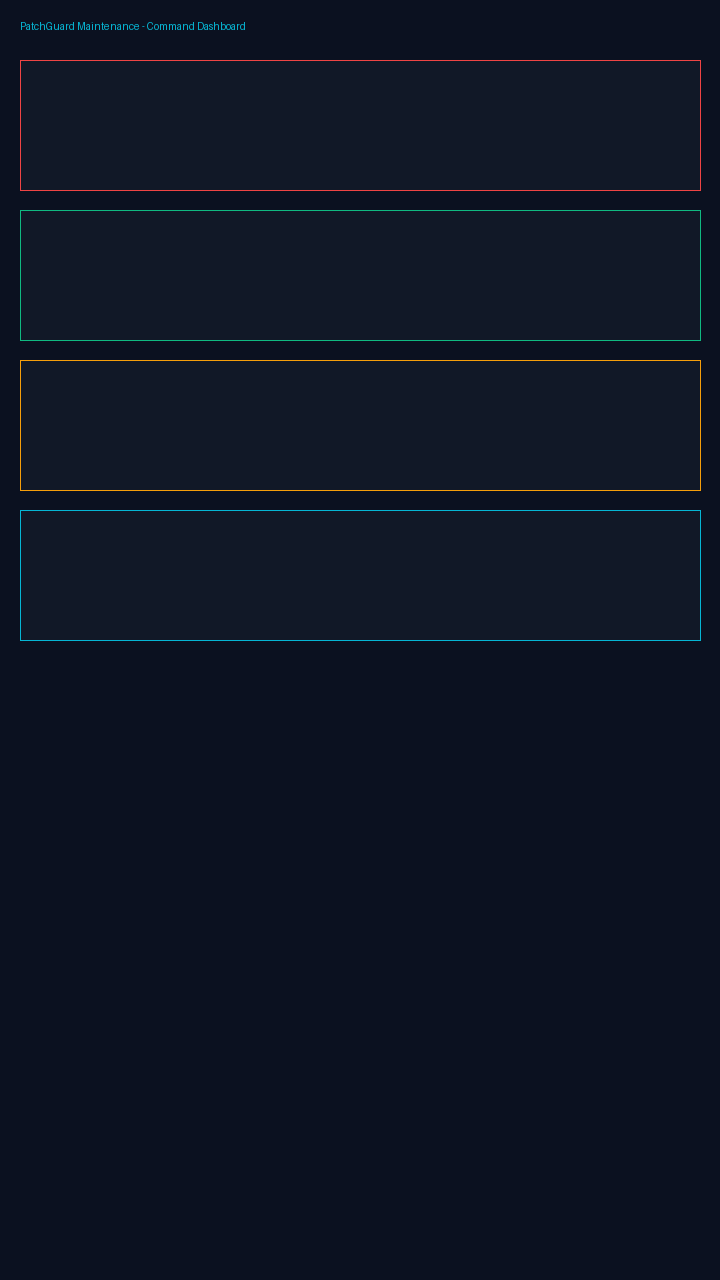
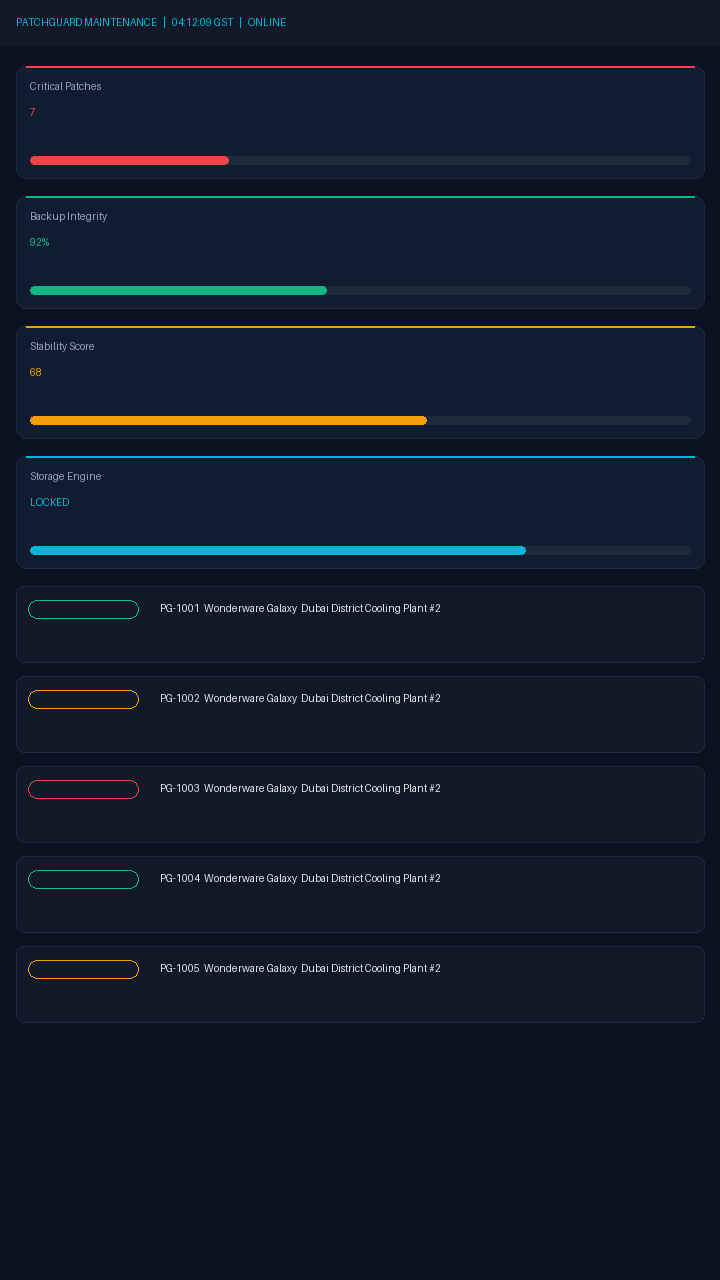
Add files via upload

diff --git a/js/app.js b/js/app.js
@@ -5,7 +5,8 @@ const CHK=['Full Galaxy (.cab) & SQL (.bak) backup verified','Redundant AppEngin
 let tab=location.hash.slice(1)||'dash',F={q:'',c:'',s:'',v:''},dp;
 const today=()=>new Date().toISOString().slice(0,10),now=()=>new Date().toISOString();
 const toast=m=>{const t=$('#toast');t.textContent=m;t.style.display='block';setTimeout(()=>t.style.display='none',2500)};
-const cls=v=>/OPTIMAL|Completed|Passed|Approved|MATCH/.test(v)?'ok':/WARNING|Progress|Pending|Not/.test(v)?'wa':/CRITICAL|Rolled|Failed|Critical/.test(v)?'cr':'in';
+const cls=v=>/MISMATCH|CRITICAL|Rolled|Failed|Critical|Rejected/.test(v)?'cr':/OPTIMAL|Completed|Passed|Approved|MATCH|LOCKED/.test(v)&&!/UNLOCKED/.test(v)?'ok':/WARNING|Progress|Pending|Not|UNLOCKED/.test(v)?'wa':'in';
+const meter=(p,c)=>`<i class="m"><u class="${c}" style="width:${Math.min(100,p)}%"></u></i>`,lv=p=>p>85?'cr':p>=70?'wa':'ok',gate=p=>{const n=(p.preCheckItems||[]).filter(Boolean).length;return`<span class="b ${n==5?'ok':n>=3?'wa':'cr'}">${n}/5 Gates${n==5?' Passed':''}</span>`};
 const bd=v=>`<span class="b ${cls(v)}">${E(v)}</span>`;
 function dl(name,text,type){const a=document.createElement('a');a.href=URL.createObjectURL(new Blob([text],{type}));a.download=name;a.click()}
 function csv(rows){if(!rows.length)return'';const k=Object.keys(rows[0]);return[k.join(','),...rows.map(r=>k.map(x=>'"'+String(typeof r[x]=='object'?JSON.stringify(r[x]):r[x]??'').replace(/"/g,'""')+'"').join(','))].join('\n')}
@@ -27,40 +28,41 @@ el.innerHTML=`<div class="bar"><button class="p" data-a="p">+ Schedule Patch Win
 <div class="card"><h3>Upcoming Windows (30 days)</h3>${up.map(p=>{const d=Math.ceil((new Date(p.scheduledDate)-new Date(today()))/864e5);return`<p>${bd('T-'+d+'d')} <b>${E(p.ticketRef)}</b> ${E(p.siteName)} - ${E(p.targetSystem)} (${p.scheduledDate}) PTW: ${bd(p.qhsePermit)}</p>`}).join('')||'<p>No windows in next 30 days.</p>'}</div>`;
 el.onclick=e=>{const a=e.target.dataset.a;if(a=='p')patchForm();if(a=='b'){tab='backups';render()}if(a=='a')auditForm();if(a=='r')printReport()}},
 async patches(el){const P=(await PG.all('patch_schedules')).sort((a,b)=>a.scheduledDate<b.scheduledDate?1:-1).filter(p=>(!F.c||p.assetType==F.c)&&(!F.s||p.status==F.s)&&(!F.v||p.cveSeverity==F.v)&&JSON.stringify(p).toLowerCase().includes(F.q.toLowerCase()));
-el.innerHTML=`<div class="bar"><input id="q" placeholder="Search..." value="${E(F.q)}">${sel('fc',CATS,F.c,'All assets')}${sel('fs',STAT,F.s,'All status')}${sel('fv',SEV,F.v,'All severity')}<button class="p" id="add">+ New Patch</button></div><div class="tw"><table><tr><th>Ticket</th><th>Site</th><th>System</th><th>Version</th><th>Severity</th><th>Date</th><th>Status</th><th>PTW</th><th></th></tr>${P.map(p=>`<tr><td>${E(p.ticketRef)}</td><td>${E(p.siteName)}</td><td>${E(p.targetSystem)}</td><td class="mono">${E(p.currentVersion)}&rarr;${E(p.targetVersion)}</td><td>${bd(p.cveSeverity)}</td><td>${p.scheduledDate}</td><td>${bd(p.status)}</td><td>${bd(p.qhsePermit)}</td><td><button data-n="${p.id}">Advance</button> ${p.status=='In Progress'?`<button class="d" data-rb="${p.id}">Rollback</button>`:''} <button data-e="${p.id}">Edit</button> <button class="d" data-d="${p.id}">Del</button></td></tr>`).join('')}</table></div>`;
+el.innerHTML=`<div class="bar"><input id="q" placeholder="Search..." value="${E(F.q)}">${sel('fc',CATS,F.c,'All assets')}${sel('fs',STAT,F.s,'All status')}${sel('fv',SEV,F.v,'All severity')}<button class="p" id="add">+ New Patch</button></div><div class="tw"><table><tr><th>Ticket</th><th>Site</th><th>System</th><th>Version</th><th>Severity</th><th>Date</th><th>Status</th><th>PTW</th><th>Gates</th><th></th></tr>${P.map(p=>`<tr><td>${E(p.ticketRef)}</td><td>${E(p.siteName)}</td><td>${E(p.targetSystem)}</td><td class="mono">${E(p.currentVersion)}&rarr;${E(p.targetVersion)}</td><td>${bd(p.cveSeverity)}</td><td>${p.scheduledDate}</td><td>${bd(p.status)}</td><td>${bd(p.qhsePermit)}</td><td>${gate(p)}</td><td class="act"><button data-n="${p.id}">Advance</button> ${p.status=='In Progress'?`<button class="d" data-rb="${p.id}">Rollback</button>`:''} <button data-e="${p.id}">Edit</button> <button class="d" data-d="${p.id}">Del</button></td></tr>`).join('')}</table></div>`;
 $('#q').oninput=e=>{F.q=e.target.value;render().then(()=>{const i=$('#q');i.focus();i.setSelectionRange(99,99)})};$('#fc').onchange=e=>{F.c=e.target.value;render()};$('#fs').onchange=e=>{F.s=e.target.value;render()};$('#fv').onchange=e=>{F.v=e.target.value;render()};$('#add').onclick=()=>patchForm();
 el.onclick=async e=>{const d=e.target.dataset,all=await PG.all('patch_schedules'),g=i=>all.find(x=>x.id==i);
 if(d.e)patchForm(g(d.e));if(d.d&&confirm('Delete?')){await PG.del('patch_schedules',d.d);render()}
 if(d.n){const p=g(d.n);if(p.status=='Scheduled'){if(p.preCheckItems.filter(Boolean).length<5&&!confirm('Safety gate checklist incomplete. Proceed anyway?'))return;p.status='In Progress';p.startedAt=now()}else if(p.status=='In Progress'){p.status='Completed';p.completedAt=now()}else return;p.updatedAt=now();await PG.put('patch_schedules',p);toast('Status: '+p.status);render()}
 if(d.rb){const p=g(d.rb);p.status='Rolled Back';p.rolledBackAt=now();p.updatedAt=now();await PG.put('patch_schedules',p);render()}}},
 async backups(el){const B=(await PG.all('backup_verifications')).sort((a,b)=>a.verifiedDate<b.verifiedDate?1:-1);
-el.innerHTML=`<div class="card"><h3>Local SHA-256 Calculator (processed in-browser, nothing uploaded)</h3><div class="drop" id="drop">Drag & drop a backup file here or <input type="file" id="fi"></div><label>Expected baseline SHA-256</label><input id="exp" style="width:100%" class="mono"><div id="res" class="mono"></div></div><div class="bar"><button class="p" id="add">+ Log Backup Verification</button></div><div class="tw"><table><tr><th>Ref</th><th>Site</th><th>Type</th><th>File</th><th>Hash</th><th>Test Restore</th><th>RTO</th><th>Date</th><th>Expires</th><th></th></tr>${B.map(b=>`<tr><td>${E(b.backupRef)}</td><td>${E(b.siteName)}</td><td>${E(b.artifactType)}</td><td>${E(b.fileName)}</td><td>${bd(b.hashMatch?'MATCH':'MISMATCH')}</td><td>${bd(b.testRestoreStatus)}</td><td>${b.rtoMinutes}m</td><td>${b.verifiedDate}</td><td>${b.retentionExpiryDate}</td><td><button class="d" data-d="${b.id}">Del</button></td></tr>`).join('')}</table></div>`;
+el.innerHTML=`<div class="card"><h3>Local SHA-256 Calculator (processed in-browser, nothing uploaded)</h3><div class="drop" id="drop"><div>&#8682; Drag & drop backup file here</div><label class="fb">Browse Files<input type="file" id="fi" hidden></label></div><label>Expected baseline SHA-256</label><input id="exp" style="width:100%" class="mono"><div id="res" class="mono"></div></div><div class="bar"><button class="p" id="add">+ Log Backup Verification</button></div><div class="tw"><table><tr><th>Ref</th><th>Site</th><th>Type</th><th>File</th><th>Hash</th><th>Test Restore</th><th>RTO</th><th>Date</th><th>Expires</th><th></th></tr>${B.map(b=>`<tr><td>${E(b.backupRef)}</td><td>${E(b.siteName)}</td><td>${E(b.artifactType)}</td><td>${E(b.fileName)}</td><td>${bd(b.hashMatch?'MATCH':'MISMATCH')}</td><td>${bd(b.testRestoreStatus)}</td><td>${b.rtoMinutes}m</td><td>${b.verifiedDate}</td><td>${b.retentionExpiryDate}</td><td><button class="d" data-d="${b.id}">Del</button></td></tr>`).join('')}</table></div>`;
 async function hashFile(f){$('#res').textContent='Hashing '+f.name+'...';const h=await PG.sha256(await f.arrayBuffer()),x=$('#exp').value.trim().toLowerCase(),m=x?h==x:null;window._last={f,h,m};$('#res').innerHTML=`${E(f.name)} | ${(f.size/1048576).toFixed(2)} MB | ${new Date(f.lastModified).toISOString()}<br>SHA-256: ${h}<br>${m===null?'Enter a baseline to compare.':m?'<b class="ok">MATCH VERIFIED</b>':'<b class="cr">CORRUPTION / MISMATCH DETECTED</b>'}<br><button id="lg">Log this result</button>`;$('#lg').onclick=()=>backupForm(window._last)}
 $('#fi').onchange=e=>e.target.files[0]&&hashFile(e.target.files[0]);const dr=$('#drop');dr.ondragover=e=>e.preventDefault();dr.ondrop=e=>{e.preventDefault();hashFile(e.dataTransfer.files[0])};
 $('#add').onclick=()=>backupForm();el.onclick=async e=>{if(e.target.dataset.d){await PG.del('backup_verifications',e.target.dataset.d);render()}}},
 async audits(el){const A=(await PG.all('stability_audits')).sort((a,b)=>a.auditDate<b.auditDate?1:-1);
-el.innerHTML=`<div class="bar"><button class="p" id="add">+ Run Routine Health Audit</button></div><div class="tw"><table><tr><th>Ref</th><th>Site</th><th>Date</th><th>CPU/RAM</th><th>TempDB GB</th><th>SaF Queue</th><th>DCOM</th><th>FW</th><th>Health</th><th>Corrective Actions</th><th></th></tr>${A.map(a=>`<tr><td>${E(a.auditRef)}</td><td>${E(a.siteName)}</td><td>${a.auditDate}</td><td>${a.cpuLoadPct}/${a.ramUsagePct}%</td><td>${a.sqlTempDbFreeGB}</td><td>${a.historianQueueCount}</td><td>${a.dcomSecurityOk?'&#10003;':'&#10007;'}</td><td>${a.firewallRulesVerified?'&#10003;':'&#10007;'}</td><td>${bd(a.overallHealth)}</td><td>${E(a.correctiveActions)}</td><td><button class="d" data-d="${a.id}">Del</button></td></tr>`).join('')}</table></div>`;
+el.innerHTML=`<div class="bar"><button class="p" id="add">+ Run Routine Health Audit</button></div><div class="tw"><table><tr><th>Ref</th><th>Site</th><th>Date</th><th>CPU/RAM</th><th>TempDB GB</th><th>SaF Queue</th><th>DCOM</th><th>FW</th><th>Health</th><th>Corrective Actions</th><th></th></tr>${A.map(a=>`<tr><td>${E(a.auditRef)}</td><td>${E(a.siteName)}</td><td>${a.auditDate}</td><td>CPU ${a.cpuLoadPct}%${meter(a.cpuLoadPct,lv(a.cpuLoadPct))}RAM ${a.ramUsagePct}%${meter(a.ramUsagePct,lv(a.ramUsagePct))}</td><td>${a.sqlTempDbFreeGB}</td><td>${a.historianQueueCount}</td><td>${a.dcomSecurityOk?'&#10003;':'&#10007;'}</td><td>${a.firewallRulesVerified?'&#10003;':'&#10007;'}</td><td>${bd(a.overallHealth)}</td><td>${(a.correctiveActions||'').split('; ').filter(Boolean).map(t=>`<span class="b in">${E(t)}</span>`).join(' ')||'<span class="b ok">None</span>'}</td><td><button class="d" data-d="${a.id}">Del</button></td></tr>`).join('')}</table></div>`;
 $('#add').onclick=()=>auditForm();el.onclick=async e=>{if(e.target.dataset.d){await PG.del('stability_audits',e.target.dataset.d);render()}}},
 async vault(el){const q=await PG.quota(),cnt={};for(const s in STORES)cnt[s]=(await PG.all(s)).length;const AR=await PG.all('cold_archives');
-el.innerHTML=`<div class="grid"><div class="card">Used<b>${q.used.toFixed(2)} MB</b>of ${q.avail.toFixed(1)} GB (${q.pct.toFixed(4)}%)</div><div class="card">Persistence ${bd(q.persisted?'LOCKED':'UNLOCKED')}<br><button id="pst">Activate Persistent Storage</button></div><div class="card">3-yr capacity<b>${q.years3.toLocaleString()}</b>est. records</div></div>
+el.innerHTML=`<div class="grid"><div class="card kpi"><span class="lb">Storage Used</span><b>${q.used.toFixed(2)} MB</b>${meter(Math.max(q.pct,1),'in')}<span class="lb">Used ${q.used.toFixed(2)} MB of ${q.avail.toFixed(1)} GB (${q.pct.toFixed(4)}%)</span></div><div class="card kpi"><span class="lb">Persistence Lock</span>${bd(q.persisted?'LOCKED':'UNLOCKED')}<br><button id="pst">Activate Persistent Storage</button></div><div class="card kpi"><span class="lb">3-Yr Capacity</span><b>~${q.years3.toLocaleString()}</b><span class="lb">est. records</span></div></div>
 <div class="card"><h3>Records</h3>${Object.entries(cnt).map(([k,v])=>`<span class="b in">${k}: ${v}</span> `).join('')}</div>
-<div class="card"><h3>Cold Archive</h3><div class="bar"><input id="fy" type="number" value="${new Date().getFullYear()-1}" style="width:100px"><button id="arc">Archive Fiscal Year</button></div>${AR.map(a=>`<p>FY${a.fiscalYear} - ${a.recordCount} records - <span class="mono">${a.checksum.slice(0,16)}...</span> <button data-r="${a.id}">Restore</button></p>`).join('')}</div>
-<div class="card"><h3>Backup & Restore</h3><div class="bar"><button id="ej">Export JSON</button><label><input type="file" id="ij" accept=".json"></label><select id="im"><option value="m">Merge</option><option value="o">Overwrite</option></select><button id="e1">patch_schedules.csv</button><button id="e2">backup_verifications.csv</button><button id="e3">stability_audits.csv</button><button class="d" id="rs">Reset to Demo</button></div></div><button class="p" id="rp">Print QHSE Report</button>`;
+<div class="card"><h3>Cold Archive</h3><div class="bar"><input id="fy" type="number" value="${new Date().getFullYear()-1}" style="width:100px"><button id="arc">Archive Fiscal Year</button></div>${AR.map(a=>`<p>FY${a.fiscalYear} - ${a.recordCount} records - saved ${Math.round((1-a.compressedPayloadJson.length*.75/a.rawBytes)*100)}% (${a.rawBytes}B&rarr;${Math.round(a.compressedPayloadJson.length*.75)}B) - <span class="mono">${a.checksum.slice(0,16)}...</span> <button data-r="${a.id}">Restore</button></p>`).join('')}</div>
+<div class="card"><h3>Backup & Restore</h3><div class="bar"><button id="ej">Export JSON</button><label class="fb">Import JSON<input type="file" id="ij" accept=".json" hidden></label><select id="im"><option value="m">Merge</option><option value="o">Overwrite</option></select><button id="e1">patch_schedules.csv</button><button id="e2">backup_verifications.csv</button><button id="e3">stability_audits.csv</button><button class="d" id="rs">Reset to Demo</button></div></div><button class="p" id="rp">Print QHSE Report</button>`;
 $('#pst').onclick=async()=>{toast(await PG.persist()?'Storage locked':'Browser declined persistence');render()};
 $('#ej').onclick=async()=>dl('patchguard-'+today()+'.json',JSON.stringify(await PG.dump(),null,1),'application/json');
 $('#ij').onchange=async e=>{await PG.load(JSON.parse(await e.target.files[0].text()),$('#im').value=='o');toast('Imported');render()};
 [['e1','patch_schedules'],['e2','backup_verifications'],['e3','stability_audits']].forEach(([i,s])=>$('#'+i).onclick=async()=>dl(s+'.csv',csv(await PG.all(s)),'text/csv'));
 $('#rs').onclick=async()=>{if(confirm('Erase all data and reseed?')){await PG.seed(true);render()}};$('#rp').onclick=printReport;
-$('#arc').onclick=async()=>{const y=+$('#fy').value;if(y>=new Date().getFullYear()-0&&!confirm('Year is not older than 365 days. Archive anyway?'))return;const o={};let n=0;for(const s of['patch_schedules','backup_verifications','stability_audits']){o[s]=(await PG.all(s)).filter(r=>r.fiscalYear==y);n+=o[s].length}if(!n)return toast('No records');const j=JSON.stringify(o);await PG.put('cold_archives',{id:PG.uid(),archiveLabel:'FY'+y,fiscalYear:y,archivedAt:now(),recordCount:n,compressedPayloadJson:j,checksum:await PG.sha256(new TextEncoder().encode(j))});for(const s in o)for(const r of o[s])await PG.del(s,r.id);toast('Archived '+n);render()};
-el.onclick=async e=>{const id=e.target.dataset.r;if(!id)return;const a=(await PG.all('cold_archives')).find(x=>x.id==id);if(await PG.sha256(new TextEncoder().encode(a.compressedPayloadJson))!=a.checksum)return toast('Checksum failed!');await PG.load(JSON.parse(a.compressedPayloadJson),false);await PG.del('cold_archives',id);toast('Restored');render()}}};
+$('#arc').onclick=async()=>{const y=+$('#fy').value;if(y>=new Date().getFullYear()-0&&!confirm('Year is not older than 365 days. Archive anyway?'))return;const o={};let n=0;for(const s of['patch_schedules','backup_verifications','stability_audits']){o[s]=(await PG.all(s)).filter(r=>r.fiscalYear==y);n+=o[s].length}if(!n)return toast('No records');const j=JSON.stringify(o),z=await PG.gz(j);await PG.put('cold_archives',{id:PG.uid(),archiveLabel:'FY'+y,fiscalYear:y,archivedAt:now(),recordCount:n,rawBytes:j.length,compressedPayloadJson:z,checksum:await PG.sha256(new TextEncoder().encode(z))});for(const s in o)for(const r of o[s])await PG.del(s,r.id);toast('Archived '+n);render()};
+el.onclick=async e=>{const id=e.target.dataset.r;if(!id)return;const a=(await PG.all('cold_archives')).find(x=>x.id==id);if(await PG.sha256(new TextEncoder().encode(a.compressedPayloadJson))!=a.checksum)return toast('Checksum failed!');await PG.load(JSON.parse(await PG.gunz(a.compressedPayloadJson)),false);await PG.del('cold_archives',id);toast('Restored');render()}}};
 function patchForm(r){r=r||{ticketRef:'PG-'+Math.floor(Math.random()*9000+1000),scheduledDate:today(),windowHours:4,status:'Scheduled',qhsePermit:'Pending',preCheckItems:[]};
 form(r.id?'Edit Patch':'Schedule Patch',[['ticketRef','Ticket'],['siteName','Site'],['assetType','Asset Category','select',CATS],['targetSystem','Target System'],['currentVersion','Current Version'],['targetVersion','Target Version'],['cveSeverity','Severity','select',SEV],['scheduledDate','Date','date'],['windowHours','Window (h)','number'],['status','Status','select',STAT],['qhsePermit','QHSE Permit','select',['Pending','Approved','Rejected']],['notes','Notes','area']],r,async o=>{const c=o._chk;delete o._chk;await PG.put('patch_schedules',{...r,...o,id:r.id||PG.uid(),preCheckItems:c,rollbackTested:c[3],createdAt:r.createdAt||now(),updatedAt:now(),fiscalYear:PG.fy(o.scheduledDate)})},x=>'<h4>Pre-Maintenance Safety Gate</h4>'+CHK.map((t,i)=>`<label class="ck"><input type="checkbox" class="pc" ${(x.preCheckItems||[])[i]?'checked':''}> ${t}</label>`).join(''))}
 function backupForm(l){const r={backupRef:'BK-'+Math.floor(Math.random()*9000+1000),verifiedDate:today(),testRestoreStatus:'Not Tested',rtoMinutes:0,verifiedBy:'SCADA Engineer',fileName:l?l.f.name:'',fileSizeMB:l?+(l.f.size/1048576).toFixed(2):0,sha256Calculated:l?l.h:'',sha256Expected:l?$('#exp').value:'',storageLocation:'Eng. Workstation'};
 form('Log Backup Verification',[['backupRef','Ref'],['siteName','Site'],['artifactType','Artifact','select',['Galaxy Repository (.cab)','InTouch Package (.aaPKG)','SQL Server / Historian (.bak)','Driver Config (.xml/.cfg)','PLC Logic (.zap16/.ACD)']],['fileName','File'],['fileSizeMB','Size MB','number'],['storageLocation','Storage'],['sha256Expected','Expected SHA-256'],['sha256Calculated','Calculated SHA-256'],['testRestoreStatus','Test Restore','select',['Not Tested','Passed','Failed']],['rtoMinutes','RTO (min)','number'],['verifiedBy','Verified by'],['verifiedDate','Date','date'],['notes','Notes','area']],r,async o=>{delete o._chk;const d=new Date(o.verifiedDate);d.setDate(d.getDate()+365);await PG.put('backup_verifications',{...o,id:PG.uid(),hashMatch:!!o.sha256Expected&&o.sha256Expected.toLowerCase()==o.sha256Calculated.toLowerCase(),retentionExpiryDate:d.toISOString().slice(0,10),fiscalYear:PG.fy(o.verifiedDate)})})}
 function auditForm(){const r={auditRef:'AU-'+Math.floor(Math.random()*9000+1000),auditDate:today(),frequency:'Monthly',cpuLoadPct:30,ramUsagePct:50,sqlTempDbFreeGB:20,historianQueueCount:0,opcChannelStatus:'Good',dcomSecurityOk:true,firewallRulesVerified:true,sqlIndexDefragOk:true,annexureCompliant:true};
-form('Routine Health Audit',[['auditRef','Ref'],['siteName','Site'],['auditDate','Date','date'],['frequency','Frequency','select',['Weekly','Monthly','Quarterly']],['cpuLoadPct','CPU %','number'],['ramUsagePct','RAM %','number'],['sqlTempDbFreeGB','TempDB free GB','number'],['historianQueueCount','Historian SaF queue','number'],['opcChannelStatus','OPC channel','select',['Good','Degraded','Bad']],['dcomSecurityOk','OPC DCOM hardened','check'],['firewallRulesVerified','Firewall/DMZ rules verified','check'],['sqlIndexDefragOk','SQL index defrag OK','check'],['annexureCompliant','Annexure-SCT-HR-001 compliant','check'],['findings','Findings','area']],r,async o=>{delete o._chk;const h=PG.grade(o),ca=[];if(o.sqlTempDbFreeGB<5)ca.push('Free TempDB space');if(o.historianQueueCount>10)ca.push('Clear SaF queue');if(!o.dcomSecurityOk)ca.push('Harden DCOM');if(!o.firewallRulesVerified)ca.push('Verify firewall');if(!o.sqlIndexDefragOk)ca.push('Run index defrag');if(o.cpuLoadPct>85||o.ramUsagePct>90)ca.push('Investigate resource load');await PG.put('stability_audits',{...o,id:PG.uid(),overallHealth:h,correctiveActions:ca.join('; '),fiscalYear:PG.fy(o.auditDate)});toast('Health: '+h)})}
+form('Routine Health Audit',[['auditRef','Ref'],['siteName','Site'],['auditDate','Date','date'],['frequency','Frequency','select',['Weekly','Monthly','Quarterly']],['cpuLoadPct','CPU %','number'],['ramUsagePct','RAM %','number'],['sqlTempDbFreeGB','TempDB free GB','number'],['historianQueueCount','Historian SaF queue','number'],['opcChannelStatus','OPC channel','select',['Good','Degraded','Bad']],['dcomSecurityOk','OPC DCOM hardened','check'],['firewallRulesVerified','Firewall/DMZ rules verified','check'],['sqlIndexDefragOk','SQL index defrag OK','check'],['annexureCompliant','Annexure-SCT-HR-001 compliant','check'],['findings','Findings','area']],r,async o=>{delete o._chk;const h=PG.grade(o),ca=PG.actions(o);await PG.put('stability_audits',{...o,id:PG.uid(),overallHealth:h,correctiveActions:ca.join('; '),fiscalYear:PG.fy(o.auditDate)});toast('Health: '+h)})}
 async function printReport(){const P=await PG.all('patch_schedules'),B=await PG.all('backup_verifications');$('#report').innerHTML=`<h1 style="color:#000">Maintenance Compliance Certificate</h1><h3>Al Gurg Automation and Controls - Dubai, U.A.E.</h3><p>Generated ${now()}. Annexure-SCT-HR-001 (QHSE) compliance affirmed for the activities below.</p><h4>Patch Execution Summary</h4><table><tr><th>Ticket</th><th>Site</th><th>System</th><th>Version</th><th>Date</th><th>Status</th></tr>${P.map(p=>`<tr><td>${E(p.ticketRef)}</td><td>${E(p.siteName)}</td><td>${E(p.targetSystem)}</td><td>${E(p.currentVersion)}&rarr;${E(p.targetVersion)}</td><td>${p.scheduledDate}</td><td>${p.status}</td></tr>`).join('')}</table><h4>Verified Backup Ledger</h4><table><tr><th>Ref</th><th>File</th><th>Hash</th><th>Restore</th><th>Date</th></tr>${B.map(b=>`<tr><td>${E(b.backupRef)}</td><td>${E(b.fileName)}</td><td>${b.hashMatch?'MATCH':'MISMATCH'}</td><td>${b.testRestoreStatus}</td><td>${b.verifiedDate}</td></tr>`).join('')}</table><p><br>SCADA Engineer: ____________________ Date: ____________</p>`;setTimeout(()=>print(),100)}
 (async()=>{await PG.open();await PG.seed();PG.persist();await render();
 addEventListener('online',()=>{$('#net').textContent='ONLINE';$('#net').className='b ok'});addEventListener('offline',()=>{$('#net').textContent='OFFLINE';$('#net').className='b wa'});
 addEventListener('beforeinstallprompt',e=>{e.preventDefault();dp=e;$('#install').style.display='inline-block'});$('#install').onclick=async()=>{dp&&dp.prompt();dp=null;$('#install').style.display='none'};
+const clk=()=>$('#clk').textContent=new Date().toLocaleTimeString('en-GB',{timeZone:'Asia/Dubai'})+' GST';clk();setInterval(clk,1000);
 if('serviceWorker'in navigator)navigator.serviceWorker.register('sw.js').catch(()=>{})})();

diff --git a/js/db.js b/js/db.js
@@ -11,11 +11,17 @@ async quota(){try{const e=await navigator.storage.estimate(),p=await navigator.s
 async dump(){const o={app:'PatchGuard',v:1,at:new Date().toISOString()};for(const s in STORES)o[s]=await PG.all(s);return o},
 async load(o,overwrite){for(const s in STORES){if(overwrite)await PG.clear(s);for(const r of o[s]||[])await PG.put(s,r)}},
 async seed(force){if(!force&&(await PG.all('patch_schedules')).length)return;for(const s in STORES)await PG.clear(s);
-const D=n=>{const d=new Date();d.setDate(d.getDate()+n);return d.toISOString().slice(0,10)};
-const P=[['Dubai District Cooling Plant #2','Wonderware Galaxy','System Platform Galaxy','2023 R2','2023 R2 SP1','Critical CVE',3,'Scheduled'],['Jebel Ali Water Pumping Station','AVEVA Historian','Historian SQL Server','SQL 2019 CU18','SQL 2019 CU22','High',9,'Scheduled'],['Al Quoz Substation','InTouch HMI','InTouch HMI Node 3','2023 R2','2023 R2 P01','Routine Maintenance',15,'In Progress'],['Jebel Ali Water Pumping Station','OPC & Modbus Comms','OPC UA Gateway','2.1.4','2.2.0','Feature Upgrade',22,'Scheduled'],['Al Quoz Substation','PLC Firmware','Siemens S7-1500 CPU','V2.9','V3.0.1','High',-20,'Completed'],['Dubai District Cooling Plant #2','Windows Server OS','Historian Server 2019','KB-2024-08','KB-2024-10','Critical CVE',-45,'Rolled Back']];
-for(const[i,p]of P.entries())await PG.put('patch_schedules',{id:PG.uid()+i,ticketRef:'PG-'+(1001+i),siteName:p[0],assetType:p[1],targetSystem:p[2],currentVersion:p[3],targetVersion:p[4],cveSeverity:p[5],scheduledDate:D(p[6]),windowHours:4,status:p[7],qhsePermit:p[7]=='Scheduled'?'Pending':'Approved',preCheckItems:[1,1,0,0,0].map((x,j)=>j<(i%5)+1),notes:'Seed demo',createdAt:new Date().toISOString(),updatedAt:new Date().toISOString(),fiscalYear:PG.fy(D(p[6]))});
-const B=[['Dubai District Cooling Plant #2','Galaxy Repository (.cab)','DCP2_Galaxy.cab',842,-5,1,'Passed',38],['Jebel Ali Water Pumping Station','SQL Server / Historian (.bak)','Runtime_full.bak',5120,-12,1,'Passed',55],['Al Quoz Substation','PLC Logic (.zap16/.ACD)','AQ_S7_Project.zap16',64,-40,0,'Failed',0],['Al Quoz Substation','InTouch Package (.aaPKG)','AQ_HMI.aaPKG',210,-2,1,'Not Tested',0]];
-const h='a3f1'.repeat(16);for(const[i,b]of B.entries())await PG.put('backup_verifications',{id:PG.uid()+i,backupRef:'BK-'+(2001+i),siteName:b[0],artifactType:b[1],fileName:b[2],fileSizeMB:b[3],storageLocation:'Eng. Workstation / NAS',sha256Expected:h,sha256Calculated:b[5]?h:'b'.repeat(64),hashMatch:!!b[5],testRestoreStatus:b[6],rtoMinutes:b[7],verifiedBy:'SCADA Engineer',verifiedDate:D(b[4]),retentionExpiryDate:D(b[4]+365),notes:'',fiscalYear:PG.fy(D(b[4]))});
-for(const[i,a]of[['Dubai District Cooling Plant #2',-3,35,48,42,0,1,1,1,1],['Jebel Ali Water Pumping Station',-10,72,81,9,14,1,1,1,0],['Al Quoz Substation',-30,92,90,2,120,0,0,0,0]].entries()){const x={id:PG.uid()+i,auditRef:'AU-'+(3001+i),siteName:a[0],auditDate:D(a[1]),frequency:'Monthly',cpuLoadPct:a[2],ramUsagePct:a[3],sqlTempDbFreeGB:a[4],historianQueueCount:a[5],opcChannelStatus:'Good',dcomSecurityOk:!!a[6],firewallRulesVerified:!!a[7],sqlIndexDefragOk:!!a[8],annexureCompliant:!!a[9],findings:'',correctiveActions:'',fiscalYear:PG.fy(D(a[1]))};x.overallHealth=PG.grade(x);await PG.put('stability_audits',x)}
-for(const[i,a]of[['DCP2','Dubai District Cooling Plant #2','Galaxy Server','Server','Windows Server 2019','2023 R2 SP1','OPC UA','10.20.1.10','High'],['JAWPS','Jebel Ali Water Pumping Station','Historian','Server','Windows Server 2019','2023 R2','Modbus TCP','10.30.1.20','High'],['AQSS','Al Quoz Substation','HMI Node 3','HMI','Windows 10 IoT','2023 R2','Allen-Bradley EtherNet/IP','10.40.1.31','Medium']].entries())await PG.put('system_assets',{id:PG.uid()+i,tagId:a[0],siteName:a[1],assetName:a[2],category:a[3],osVersion:a[4],wonderwareVersion:a[5],plcProtocol:a[6],ipAddress:a[7],criticality:a[8],lastPatchedDate:D(-30),lastBackupDate:D(-5)})},
+const S=['Dubai District Cooling Plant #2','Jebel Ali Water Pumping Station','Al Quoz Substation','DEWA 132kV Interface Node'];
+const D=n=>{const d=new Date();d.setDate(d.getDate()+n);return d.toISOString().slice(0,10)},iso=()=>new Date().toISOString(),u=i=>PG.uid()+i;
+const P=[[0,'Wonderware Galaxy','System Platform Galaxy','2023 R2','2023 R2 SP1','Critical CVE',3,'Scheduled',5],[1,'AVEVA Historian','Historian SQL Server','SQL 2019 CU18','SQL 2019 CU22','High',9,'Scheduled',3],[2,'InTouch HMI','InTouch HMI Node 3','2023 R2','2023 R2 P01','Routine Maintenance',1,'In Progress',4],[1,'OPC & Modbus Comms','OPC UA Gateway','2.1.4','2.2.0','Feature Upgrade',22,'Scheduled',1],[2,'PLC Firmware','Siemens S7-1500 CPU','V2.9','V3.0.1','High',-20,'Completed',5],[0,'Windows Server OS','Historian Server 2019','KB-2024-08','KB-2024-10','Critical CVE',-45,'Rolled Back',3],[3,'Windows Server OS','Interface Node WS2022','KB5034','KB5036','Critical CVE',6,'Scheduled',2],[3,'OPC & Modbus Comms','IEC 60870-5-104 Gateway','1.8','1.9.2','High',12,'Scheduled',0],[0,'MS SQL Server','Runtime DB SQL 2019','CU20','CU22','Routine Maintenance',18,'Scheduled',2],[1,'InTouch HMI','InTouch Terminal Services','2023 R2','2023 R2 SP1','Routine Maintenance',-10,'Completed',5],[2,'PLC Firmware','Allen-Bradley CompactLogix','v33.011','v35.011','Feature Upgrade',27,'Scheduled',1],[0,'Wonderware Galaxy','AppEngine Redundancy Pair','2023 R2','2023 R2 SP1','High',-3,'In Progress',4]];
+for(const[i,p]of P.entries())await PG.put('patch_schedules',{id:u(i),ticketRef:'PG-'+(1001+i),siteName:S[p[0]],assetType:p[1],targetSystem:p[2],currentVersion:p[3],targetVersion:p[4],cveSeverity:p[5],scheduledDate:D(p[6]),windowHours:4,status:p[7],qhsePermit:p[8]>=5||p[7]=='Completed'?'Approved':'Pending',preCheckItems:[0,1,2,3,4].map(j=>j<p[8]),rollbackTested:p[8]>3,notes:'Seed demo',createdAt:iso(),updatedAt:iso(),fiscalYear:PG.fy(D(p[6]))});
+const h='a3f1'.repeat(16),B=[[0,'Galaxy Repository (.cab)','DCP2_Galaxy.cab',842,-5,1,'Passed',38],[1,'SQL Server / Historian (.bak)','Runtime_full.bak',5120,-12,1,'Passed',55],[2,'PLC Logic (.zap16/.ACD)','AQ_S7_Project.zap16',64,-40,0,'Failed',0],[2,'InTouch Package (.aaPKG)','AQ_HMI.aaPKG',210,-2,1,'Not Tested',0],[3,'Driver Config (.xml/.cfg)','DEWA_OCMC.xml',2,-8,1,'Passed',12],[0,'SQL Server / Historian (.bak)','DCP2_Hist.trn',1480,-15,1,'Passed',41],[1,'Galaxy Repository (.cab)','JAWPS_Galaxy.cab',610,-22,1,'Passed',33],[3,'PLC Logic (.zap16/.ACD)','DEWA_IED.csv',8,-60,0,'Failed',0]];
+for(const[i,b]of B.entries())await PG.put('backup_verifications',{id:u(i),backupRef:'BK-'+(2001+i),siteName:S[b[0]],artifactType:b[1],fileName:b[2],fileSizeMB:b[3],storageLocation:'Eng. Workstation / NAS',sha256Expected:h,sha256Calculated:b[5]?h:'b'.repeat(64),hashMatch:!!b[5],testRestoreStatus:b[6],rtoMinutes:b[7],verifiedBy:'SCADA Engineer',verifiedDate:D(b[4]),retentionExpiryDate:D(b[4]+365),notes:'',fiscalYear:PG.fy(D(b[4]))});
+const A=[[0,-3,35,48,42,0,1,1,1,1],[1,-10,72,81,9,14,1,1,1,0],[2,-30,92,90,2,120,0,0,0,0],[3,-5,58,66,25,0,1,1,1,1],[0,-35,78,74,12,4,1,0,1,1],[1,-40,44,52,30,0,1,1,0,1]];
+for(const[i,a]of A.entries()){const x={id:u(i),auditRef:'AU-'+(3001+i),siteName:S[a[0]],auditDate:D(a[1]),frequency:'Monthly',cpuLoadPct:a[2],ramUsagePct:a[3],sqlTempDbFreeGB:a[4],historianQueueCount:a[5],opcChannelStatus:'Good',dcomSecurityOk:!!a[6],firewallRulesVerified:!!a[7],sqlIndexDefragOk:!!a[8],annexureCompliant:!!a[9],findings:'',fiscalYear:PG.fy(D(a[1]))};x.overallHealth=PG.grade(x);x.correctiveActions=PG.actions(x).join('; ');await PG.put('stability_audits',x)}
+const T=[['DCP2-GAL',0,'Galaxy Server','Server','Windows Server 2019','2023 R2 SP1','OPC UA','10.20.1.10','High'],['DCP2-HIS',0,'Historian','Server','Windows Server 2019','2023 R2','Modbus TCP','10.20.1.11','High'],['JAWPS-HMI',1,'HMI Cluster','HMI','Windows Server 2019','2023 R2','Modbus TCP','10.30.1.20','High'],['JAWPS-GW',1,'OPC UA Gateway','Gateway','Windows 10 IoT','2.1.4','OPC UA','10.30.1.25','Medium'],['AQ-HMI3',2,'HMI Node 3','HMI','Windows 10 IoT','2023 R2','EtherNet/IP','10.40.1.31','Medium'],['AQ-PLC1',2,'S7-1500 CPU','PLC','Firmware V2.9','n/a','PROFINET','10.40.1.50','High'],['DEWA-IFN',3,'Interface Node','Gateway','Windows Server 2022','2023 R2','IEC 60870-5-104','10.50.1.5','High'],['DEWA-IED',3,'Protection IED','PLC','Vendor FW','n/a','IEC 61850','10.50.1.60','High']];
+for(const[i,a]of T.entries())await PG.put('system_assets',{id:u(i),tagId:a[0],siteName:S[a[1]],assetName:a[2],category:a[3],osVersion:a[4],wonderwareVersion:a[5],plcProtocol:a[6],ipAddress:a[7],criticality:a[8],lastPatchedDate:D(-30),lastBackupDate:D(-5)})},
+actions(a){const c=[];if(a.sqlTempDbFreeGB<10)c.push('Expand SQL TempDB + Rebuild Indexes');if(a.historianQueueCount>0)c.push('Clear Historian SaF Queue');if(!a.dcomSecurityOk||!a.firewallRulesVerified)c.push('Enforce OPC UA DCOM Hardening & Firewall Rules');if(!a.sqlIndexDefragOk)c.push('Run SQL Index Defrag');if(a.cpuLoadPct>85||a.ramUsagePct>90)c.push('Investigate CPU/RAM Load');if(!a.annexureCompliant)c.push('Complete Annexure-SCT-HR-001 Records');return c},
+async gz(s){const b=new Uint8Array(await new Response(new Blob([s]).stream().pipeThrough(new CompressionStream('gzip'))).arrayBuffer());let x='';b.forEach(c=>x+=String.fromCharCode(c));return btoa(x)},
+async gunz(z){const b=Uint8Array.from(atob(z),c=>c.charCodeAt(0));return new Response(new Blob([b]).stream().pipeThrough(new DecompressionStream('gzip'))).text()},
 grade(a){let s=0;if(a.cpuLoadPct>85||a.ramUsagePct>90)s++;if(a.sqlTempDbFreeGB<5)s+=2;if(a.historianQueueCount>100)s+=2;else if(a.historianQueueCount>10)s++;if(!a.dcomSecurityOk)s++;if(!a.firewallRulesVerified)s++;if(!a.sqlIndexDefragOk)s++;return s>=4?'CRITICAL':s>=1?'WARNING':'OPTIMAL'}};

diff --git a/css/styles.css b/css/styles.css
@@ -14,3 +14,12 @@ label{display:block;margin:8px 0 2px;color:#9ca3af;font-size:12px}.modal input:n
 #toast{position:fixed;bottom:16px;right:16px;background:#10b981;color:#0b1120;padding:10px 14px;border-radius:6px;display:none;z-index:99}
 #install{display:none}#report{display:none}
 @media print{body>*:not(#report){display:none!important}#report{display:block!important;background:#fff;color:#000;padding:20px;font-family:serif}#report table,#report th,#report td{border:1px solid #888;color:#000}}
+header{position:sticky;top:0;z-index:5;backdrop-filter:blur(12px);background:#111827ee}nav{position:sticky;top:49px;z-index:4;background:#0b1120ee}main{max-width:1440px}
+.hb{display:flex;gap:10px;align-items:center}.pulse{width:9px;height:9px;border-radius:50%;background:#10b981;box-shadow:0 0 0 0 #10b981aa;animation:p 2s infinite}@keyframes p{70%{box-shadow:0 0 0 9px #0000}}
+.card{background:linear-gradient(135deg,rgba(6,182,212,.12),rgba(17,24,39,.95));backdrop-filter:blur(12px);border:1px solid #1e293b;border-top:1px solid #06b6d466;border-radius:12px}
+.kpi b{font-size:32px;margin:4px 0}.lb{display:block;color:#94a3b8;font-size:12px;letter-spacing:.04em}
+.m{display:block;height:6px;background:#1e293b;border-radius:9px;overflow:hidden;margin:6px 0;min-width:70px}.m u{display:block;height:100%;border-radius:9px;background:#06b6d4}.m u.ok{background:#10b981}.m u.wa{background:#f59e0b}.m u.cr{background:#ef4444}
+.b{white-space:nowrap;display:inline-block;margin:1px 0;background:#ffffff0d}.b.ok{border-color:#10b981;background:rgba(16,185,129,.15)}.b.wa{border-color:#f59e0b;background:rgba(245,158,11,.15)}.b.cr{border-color:#ef4444;background:rgba(239,68,68,.15)}.b.in{border-color:#06b6d4;background:rgba(6,182,212,.12)}
+.tw td,.tw th{white-space:nowrap}td.act{display:flex;gap:6px}td.act button{white-space:nowrap}
+.fb{display:inline-block;cursor:pointer;padding:8px 14px;border:1px solid #06b6d4;border-radius:6px;color:#06b6d4;margin:6px 0}.fb:hover{box-shadow:0 0 14px #06b6d466}
+.drop{background:radial-gradient(circle,#06b6d41a,transparent);box-shadow:inset 0 0 24px #06b6d422;border-radius:12px}

diff --git a/index.html b/index.html
@@ -2,6 +2,6 @@
 <link rel="manifest" href="manifest.webmanifest"><meta name="theme-color" content="#0b1120"><link rel="icon" href="favicon.svg" type="image/svg+xml"><link rel="icon" href="favicon.ico"><link rel="apple-touch-icon" href="apple-touch-icon.png">
 <meta name="apple-mobile-web-app-capable" content="yes"><meta name="mobile-web-app-capable" content="yes"><meta name="apple-mobile-web-app-title" content="PatchGuard"><meta name="apple-mobile-web-app-status-bar-style" content="black-translucent"><meta name="msapplication-TileColor" content="#0b1120">
 <link rel="stylesheet" href="css/styles.css"></head><body>
-<header><h1>&#9919; PATCHGUARD MAINTENANCE</h1><span><span id="net" class="b ok">ONLINE</span> <button id="install" class="p">Install App</button></span></header>
+<header><h1>&#9919; PATCHGUARD MAINTENANCE</h1><span class="hb"><span class="pulse"></span><span id="clk" class="mono"></span> <span id="net" class="b ok">ONLINE</span> <button id="install" class="p">Install App</button></span></header>
 <nav id="nav"></nav><main id="main"></main><div id="report"></div><div id="toast"></div>
 <script src="js/db.js"></script><script src="js/app.js"></script></body></html>

diff --git a/sw.js b/sw.js
@@ -1,4 +1,4 @@
-const V='pg-v1',A=['./','index.html','offline.html','manifest.webmanifest','css/styles.css','js/db.js','js/app.js','favicon.svg','icons/icon-192.png','icons/icon-512.png'];
+const V='pg-v2',A=['./','index.html','offline.html','manifest.webmanifest','css/styles.css','js/db.js','js/app.js','favicon.svg','icons/icon-192.png','icons/icon-512.png'];
 self.addEventListener('install',e=>{e.waitUntil(caches.open(V).then(c=>c.addAll(A)));self.skipWaiting()});
 self.addEventListener('activate',e=>{e.waitUntil(caches.keys().then(k=>Promise.all(k.filter(x=>x!==V).map(x=>caches.delete(x)))));self.clients.claim()});
 self.addEventListener('fetch',e=>{const r=e.request;if(r.method!=='GET')return;
